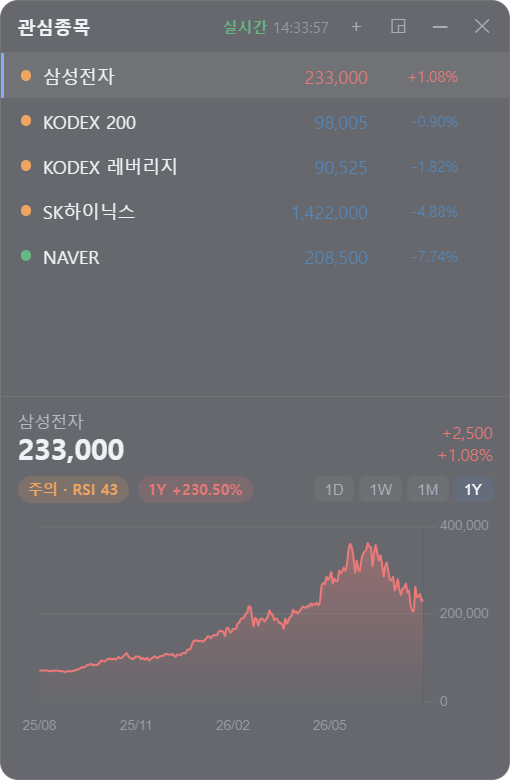
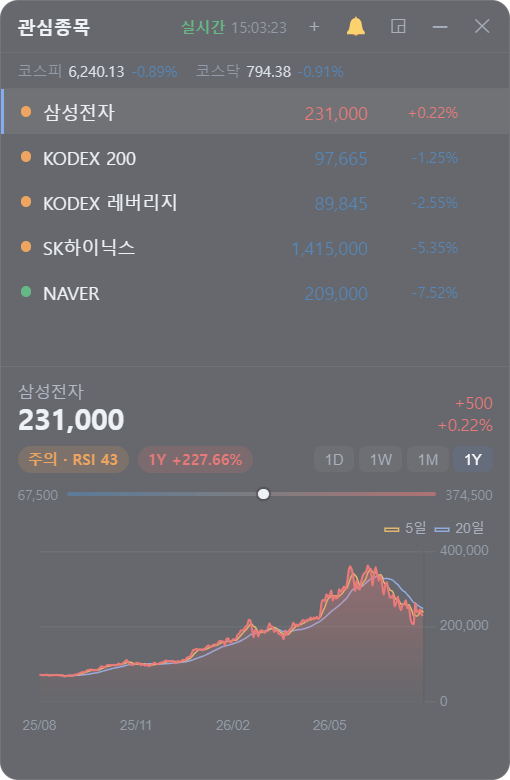
목표가 알림 (선택 기능)
기본은 꺼져 있고 사용자가 "알림 사용"을 켜야만 동작한다.

- 종목별 상한/하한을 electron-store에 저장, 🔔 패널에서 설정
- 목표가를 "통과"하는 순간에만 1회 알림
  이전 가격과 비교하는 방식이라 넘어선 상태로 머무는 동안에는 다시 울리지
  않고, 되돌아왔다가 재통과하면 다시 알린다
- 첫 갱신은 기준만 잡고 알리지 않아 켜자마자 무더기로 울리지 않음
- 장 마감 중에는 알리지 않음
- 종목 삭제 시 해당 목표가도 함께 정리
- Windows 알림 표시를 위해 AppUserModelId 설정
- 검색/알림 패널이 접힌 상태 복귀 로직을 공유하도록 정리

diff --git a/renderer.js b/renderer.js
@@ -450,12 +450,17 @@ async function refreshAll() {
   try {
     await loadIndices();
 
+    // 목표가 "통과" 판정을 위해 갱신 전 가격을 기억해 둔다
+    const prevPrices = {};
+    for (const i of state.watchlist) prevPrices[i.symbol] = quotes[i.symbol] && quotes[i.symbol].price;
+
     // 실시간 현재가는 한 번에 (요청 1건), 일봉은 rate limit 고려해 종목별 순차
     const liveMap = await fetchLive(state.watchlist.map((i) => i.symbol));
     for (const item of state.watchlist) {
       await loadQuote(item, liveMap[item.symbol.split('.')[0]]);
       renderList();
     }
+    checkAlerts(prevPrices);
     err(quoteErrText());
     renderDetail();
     await loadChart();
@@ -477,6 +482,7 @@ const save = () => api.setState({
   watchlist: state.watchlist,
   selected: state.selected,
   timeframe: state.timeframe,
+  alerts: state.alerts,
 });
 
 async function select(symbol) {
@@ -491,6 +497,7 @@ async function select(symbol) {
 async function removeSymbol(symbol) {
   state.watchlist = state.watchlist.filter((i) => i.symbol !== symbol);
   delete quotes[symbol];
+  delete state.alerts.targets[symbol]; // 지운 종목의 목표가가 남지 않게
 
   // 보고 있던 종목을 지웠으면 첫 종목으로 옮긴다
   if (state.selected === symbol) {
@@ -549,20 +556,31 @@ const searchEl = document.getElementById('search');
 const qEl = document.getElementById('q');
 const resultsEl = document.getElementById('results');
 const hintEl = document.getElementById('qhint');
+const alertsEl = document.getElementById('alerts');
 let searchSeq = 0;
 let searchTimer = null;
-let expandedForSearch = false; // 접힌 상태에서 검색하려고 펼친 것인지 (닫을 때 되접기)
+let expandedForPanel = false; // 접힌 상태에서 패널을 보려고 펼친 것인지 (닫을 때 되접기)
+
+// 검색·알림 패널은 접힌 상태에서 열면 잠깐 펼쳤다가, 모두 닫히면 다시 접는다
+function openPanel(el) {
+  if (compact) { setCompact(false); expandedForPanel = true; }
+  searchEl.hidden = true;
+  alertsEl.hidden = true;
+  el.hidden = false;
+}
+
+function closePanel(el) {
+  el.hidden = true;
+  if (expandedForPanel && searchEl.hidden && alertsEl.hidden) {
+    expandedForPanel = false;
+    setCompact(true);
+  }
+}
 
 const hint = (msg) => { hintEl.textContent = msg || ''; hintEl.hidden = !msg; };
 
 function openSearch() {
-  // 접힌 상태에서는 결과를 보여줄 공간이 없으니 먼저 편다.
-  // 검색을 닫으면 원래 접힌 상태로 돌려놓는다.
-  if (compact) {
-    setCompact(false);
-    expandedForSearch = true;
-  }
-  searchEl.hidden = false;
+  openPanel(searchEl);
   qEl.value = '';
   resultsEl.innerHTML = '';
   hint('종목명 또는 코드를 입력하세요');
@@ -571,11 +589,7 @@ function openSearch() {
 
 function closeSearch() {
   clearTimeout(searchTimer);
-  searchEl.hidden = true;
-  if (expandedForSearch) {
-    expandedForSearch = false;
-    setCompact(true); // 검색하려고 펼쳤던 것이므로 다시 접는다
-  }
+  closePanel(searchEl);
 }
 
 async function runSearch() {
@@ -603,6 +617,74 @@ async function runSearch() {
   }
 }
 
+// --- 목표가 알림 -------------------------------------------------------------------
+// 알림은 기본 꺼짐. 사용자가 "알림 사용"을 켜야만 실제로 알린다.
+function openAlerts() {
+  openPanel(alertsEl);
+  renderAlerts();
+}
+
+const closeAlerts = () => closePanel(alertsEl);
+
+function renderAlerts() {
+  const on = state.alerts.enabled;
+  document.getElementById('alertOn').checked = on;
+  alertsEl.classList.toggle('off', !on);
+  document.getElementById('alertHint').textContent = on
+    ? '장중에 목표가를 통과하면 알립니다 (통과 시 1회)'
+    : '알림이 꺼져 있습니다. 위 "알림 사용"을 켜야 동작합니다.';
+
+  const box = document.getElementById('alertList');
+  box.innerHTML = '';
+  if (!state.watchlist.length) {
+    box.innerHTML = '<div class="empty">관심종목이 없습니다.</div>';
+    return;
+  }
+
+  for (const item of state.watchlist) {
+    const t = state.alerts.targets[item.symbol] || {};
+    const row = document.createElement('div');
+    row.className = 'arow';
+    row.innerHTML = `<span class="aname">${esc(item.name)}</span>`
+      + `<input class="up" type="number" placeholder="상한" value="${t.up != null ? t.up : ''}" />`
+      + `<input class="dn" type="number" placeholder="하한" value="${t.down != null ? t.down : ''}" />`;
+
+    const save1 = () => {
+      const up = parseFloat(row.querySelector('.up').value);
+      const down = parseFloat(row.querySelector('.dn').value);
+      const next = {};
+      if (Number.isFinite(up)) next.up = up;
+      if (Number.isFinite(down)) next.down = down;
+      if (Object.keys(next).length) state.alerts.targets[item.symbol] = next;
+      else delete state.alerts.targets[item.symbol];
+      save();
+    };
+    row.querySelector('.up').onchange = save1;
+    row.querySelector('.dn').onchange = save1;
+    box.appendChild(row);
+  }
+}
+
+// 목표가 "통과" 시에만 알린다. 이전 가격이 없는 첫 갱신은 기준만 잡고 넘어가므로
+// 앱을 켜자마자 이미 목표가를 넘긴 종목이 무더기로 울리지 않는다.
+function checkAlerts(prevPrices) {
+  if (!state.alerts.enabled || !marketOpen) return;
+
+  for (const item of state.watchlist) {
+    const t = state.alerts.targets[item.symbol];
+    const q = quotes[item.symbol];
+    const prev = prevPrices[item.symbol];
+    if (!t || !q || q.error || prev == null) continue;
+
+    if (t.up != null && prev < t.up && q.price >= t.up) {
+      api.notify({ title: `${item.name} 상한 도달`, body: `${fmt(q.price)}원 (목표 ${fmt(t.up)}원)` });
+    }
+    if (t.down != null && prev > t.down && q.price <= t.down) {
+      api.notify({ title: `${item.name} 하한 도달`, body: `${fmt(q.price)}원 (목표 ${fmt(t.down)}원)` });
+    }
+  }
+}
+
 function renderTabs() {
   const box = document.getElementById('tf');
   box.innerHTML = '';
@@ -623,8 +705,12 @@ function renderTabs() {
 // --- 시작 -----------------------------------------------------------------------
 (async function init() {
   document.getElementById('dock').onclick = () => {
-    // 검색 중에 직접 접기를 누르면 검색만 닫고, 복귀 예약은 취소한다
-    if (!searchEl.hidden) { expandedForSearch = false; closeSearch(); }
+    // 패널이 열린 채로 직접 접기를 누르면 패널만 닫고, 복귀 예약은 취소한다
+    if (!searchEl.hidden || !alertsEl.hidden) {
+      expandedForPanel = false;
+      closeSearch();
+      closeAlerts();
+    }
     setCompact(!compact);
   };
 
@@ -633,6 +719,15 @@ function renderTabs() {
 
   document.getElementById('add').onclick = () => (searchEl.hidden ? openSearch() : closeSearch());
   document.getElementById('qclose').onclick = closeSearch;
+
+  document.getElementById('bell').onclick = () => (alertsEl.hidden ? openAlerts() : closeAlerts());
+  document.getElementById('alertClose').onclick = closeAlerts;
+  document.getElementById('alertOn').onchange = (e) => {
+    state.alerts.enabled = e.target.checked;
+    save();
+    renderAlerts();
+  };
+  alertsEl.onkeydown = (e) => { if (e.key === 'Escape') closeAlerts(); };
   qEl.oninput = () => { clearTimeout(searchTimer); searchTimer = setTimeout(runSearch, 300); };
   qEl.onkeydown = (e) => {
     if (e.key === 'Escape') closeSearch();
@@ -644,6 +739,8 @@ function renderTabs() {
   };
 
   state = await api.getState();
+  if (!state.alerts) state.alerts = { enabled: false, targets: {} };
+  if (!state.alerts.targets) state.alerts.targets = {};
   if (!state.watchlist.some((i) => i.symbol === state.selected)) {
     state.selected = state.watchlist[0] && state.watchlist[0].symbol;
   }

diff --git a/index.html b/index.html
@@ -126,6 +126,27 @@
   .hit.dup:hover { background: transparent; }
   .qhint { padding: 8px 11px; font-size: 10px; color: #6f7a8c; }
 
+  /* --- 목표가 알림 --- */
+  .toggle { flex: 1 1 auto; display: flex; align-items: center; gap: 6px; font-size: 12px; cursor: pointer; }
+  .toggle input { accent-color: #5b8def; width: 13px; height: 13px; cursor: pointer; }
+  #alertList { flex: 1 1 auto; overflow-y: auto; }
+  #alertList::-webkit-scrollbar { width: 5px; }
+  #alertList::-webkit-scrollbar-thumb { background: rgba(255,255,255,.14); border-radius: 3px; }
+  .arow { display: flex; align-items: center; gap: 5px; padding: 5px 11px; }
+  .arow .aname { flex: 1 1 auto; font-size: 11px; overflow: hidden; white-space: nowrap; text-overflow: ellipsis; }
+  .arow input {
+    width: 68px; flex: 0 0 auto; user-select: text;
+    background: rgba(255,255,255,.06); border: 1px solid rgba(255,255,255,.1);
+    border-radius: 5px; padding: 3px 5px; color: #e8ecf2; font-size: 10px;
+    font-family: inherit; outline: none; text-align: right;
+  }
+  .arow input:focus { border-color: #5b8def; }
+  .arow input::placeholder { color: #5d6675; }
+  .arow input.up:focus { border-color: #e24b4a; }
+  .arow input.dn:focus { border-color: #185fa5; }
+  /* 알림이 꺼져 있으면 입력은 되지만 동작하지 않음을 시각적으로 알린다 */
+  #alerts.off #alertList { opacity: .45; }
+
   /* --- 하단 상세 + 차트 --- */
   .detail { flex: 0 0 auto; border-top: 1px solid rgba(255, 255, 255, 0.07); padding: 9px 11px 10px; }
   .dhead { display: flex; align-items: flex-end; gap: 8px; }
@@ -171,6 +192,7 @@
       <span class="title">관심종목</span>
       <span class="updated" id="updated">불러오는 중…</span>
       <button id="add" title="종목 추가">＋</button>
+      <button id="bell" title="목표가 알림">🔔</button>
       <button id="dock" title="우하단으로 접기">◲</button>
       <button id="min" title="최소화">─</button>
       <button id="close" title="닫기">✕</button>
@@ -215,6 +237,16 @@
       </div>
       <div id="results"></div>
       <div class="qhint" id="qhint">종목명을 입력하세요</div>
+    </div>
+
+    <!-- 목표가 알림 설정 오버레이 -->
+    <div class="search" id="alerts" hidden>
+      <div class="qbar">
+        <label class="toggle"><input type="checkbox" id="alertOn" /> 알림 사용</label>
+        <button id="alertClose" title="닫기(Esc)">✕</button>
+      </div>
+      <div id="alertList"></div>
+      <div class="qhint" id="alertHint"></div>
     </div>
     </div>
   </div>

diff --git a/main.js b/main.js
@@ -2,7 +2,7 @@
 // 역할: 프레임리스/반투명/항상위 위젯 창 생성, 창 상태 저장·복원,
 //       Yahoo Finance chart API 프록시(렌더러는 CORS 때문에 직접 호출 불가).
 
-const { app, BrowserWindow, ipcMain, screen, globalShortcut } = require('electron');
+const { app, BrowserWindow, ipcMain, screen, globalShortcut, Notification } = require('electron');
 const path = require('path');
 const Store = require('electron-store');
 
@@ -21,6 +21,8 @@ const store = new Store({
     watchlist: DEFAULT_WATCHLIST,
     selected: '005930.KS',
     timeframe: '1D',
+    // 목표가 알림. 기본은 꺼짐 — 사용자가 켜야만 알린다.
+    alerts: { enabled: false, targets: {} },
   },
 });
 
@@ -84,12 +86,19 @@ ipcMain.handle('state:get', () => ({
   watchlist: store.get('watchlist'),
   selected: store.get('selected'),
   timeframe: store.get('timeframe'),
+  alerts: store.get('alerts'),
 }));
 
 ipcMain.handle('state:set', (_e, patch) => {
   for (const [k, v] of Object.entries(patch || {})) {
-    if (['watchlist', 'selected', 'timeframe'].includes(k)) store.set(k, v);
+    if (['watchlist', 'selected', 'timeframe', 'alerts'].includes(k)) store.set(k, v);
   }
+});
+
+// 목표가 도달 알림. 렌더러가 켜져 있을 때만 보낸다(켜고 끄는 판단은 렌더러 쪽).
+ipcMain.on('notify', (_e, { title, body }) => {
+  if (!Notification.isSupported()) return;
+  new Notification({ title: String(title || ''), body: String(body || '') }).show();
 });
 
 ipcMain.on('win:close', () => win && win.close());
@@ -268,6 +277,8 @@ function registerToggle() {
 }
 
 app.whenReady().then(() => {
+  // Windows에서 알림이 뜨려면 AppUserModelID가 필요하다
+  if (process.platform === 'win32') app.setAppUserModelId('com.wuid0801.kr-stock-widget');
   createWindow();
   registerToggle();
 });

diff --git a/preload.js b/preload.js
@@ -11,6 +11,7 @@ contextBridge.exposeInMainWorld('api', {
   getState: () => ipcRenderer.invoke('state:get'),
   setState: (patch) => ipcRenderer.invoke('state:set', patch),
   dockWindow: (on, height) => ipcRenderer.send('win:dock', on, height),
+  notify: (payload) => ipcRenderer.send('notify', payload),
   minimizeWindow: () => ipcRenderer.send('win:minimize'),
   closeWindow: () => ipcRenderer.send('win:close'),
 });
